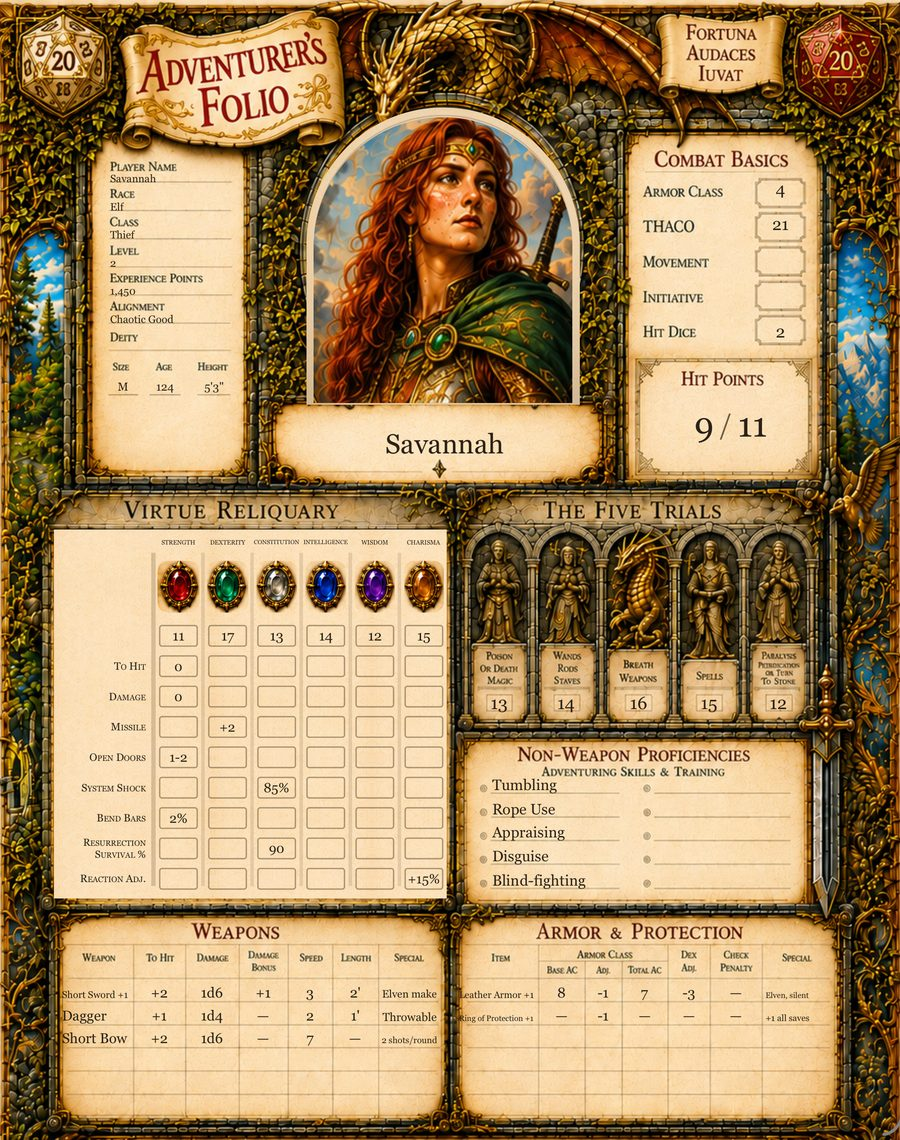
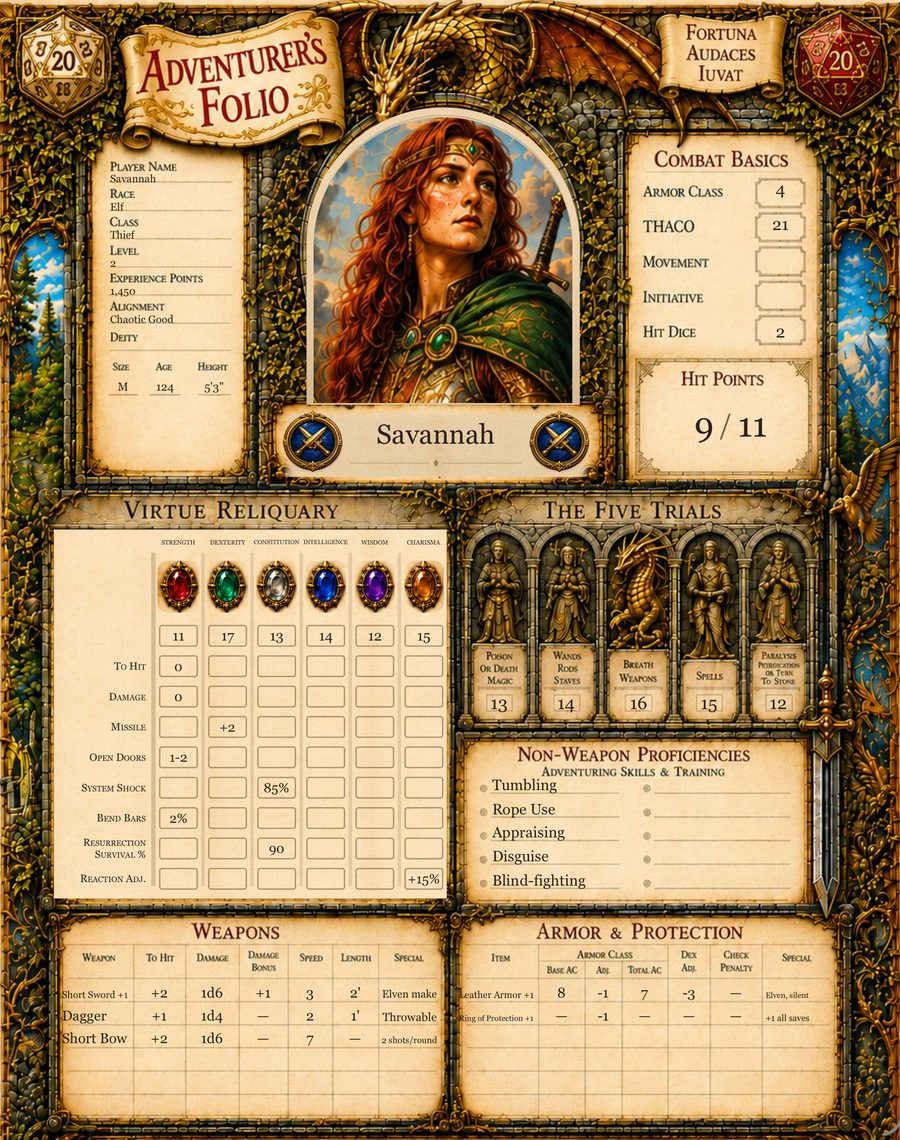
The page a printed QR code lands on can now answer the questions it raises
The flyers point here, and the page they pointed at described the app without
ever saying how to get it, what it costs, or which rule sets are in the box.

Added: a "getting it" card at the top, carrying the honest state — in review —
with the App Store markup ready in a comment beside it. What it costs, listing
the free tier and all three purchases in the same words the App Store listing
uses, including the free tier's print freeze, which is the one restriction a
buyer meets after the fact. And a plain FAQ: no Android, no web, no servers,
no adventures or monsters in the box, and what happens to your heroes if you
delete the app.

The editions section was wrong rather than thin — "first-edition Advanced and
fifth edition" is two of the three the app ships, and it named the paid one as
though it were free. It now names all three and which two are included.

A whole 2024 sheet joins the page beside the first-edition one, so the claim
that the two families are different pages is something a reader can check
rather than take. It comes from the phone capture: the iPad cannot hold a
whole sheet on screen.

Changed region(s): [[0.3111, 0.3377, 0.6533, 0.4298]]

diff --git a/index.html b/index.html
@@ -36,6 +36,19 @@ tabletop roleplaying &mdash; keep your heroes as living sheets on iPhone and
 iPad, roll dice that feel like dice, and print a page worth putting on the
 table.</p>
 
+<!-- ON APPROVAL, replace the paragraph inside this card with:
+       <p style="margin-bottom:0"><a href="https://apps.apple.com/app/id6797734128">Download
+       on the App Store</a> &mdash; free, with two complete rule sets.</p>
+     and delete the class="pending" so it stops reading as a status note.
+     The printed flyers' QR code points at this page, so this card is the
+     first thing a reader of one is looking for. -->
+<div class="card pending" id="get">
+  <h3 style="margin-top:0">Getting it</h3>
+  <p style="margin-bottom:0">The Folio is with Apple for review. The App Store
+  link lands on this page the day it is approved &mdash; the app is free, with
+  two complete rule sets and every live-play feature in it.</p>
+</div>
+
 <hr>
 
 <h2>Most character-sheet apps are forms</h2>
@@ -79,20 +92,38 @@ table.</p>
   <figcaption>Every set in the tray, yours to switch between.</figcaption>
 </figure>
 
-<h2>Two rules families, painted separately</h2>
+<h2>Three rule sets. Two of them free.</h2>
 
 <div class="split">
+  <figure>
+    <img src="img/sheet-2024.jpg" width="900" height="1352" loading="lazy"
+         alt="A 2024-revision character sheet: six ability modifiers, the Six Trials, a skills panel, and a Marshal's Board of racial and class bonuses.">
+  </figure>
+  <div>
+    <p><strong>1st Edition (1977&ndash;1988)</strong> and <strong>the 2024
+    revision</strong> are both in the app from the start. <strong>5th Edition
+    (2014)</strong> is a separate purchase for tables still playing it.</p>
+    <p>Each gets its own page architecture and its own correctly computed
+    numbers &mdash; five saving throws or six, THAC0 or an attack bonus, weapon
+    proficiencies or skills. Neither is a reskin of the other: the panels that
+    have no meaning in your edition are not there.</p>
+    <p>Pick the ruleset when you make the hero. The sheet speaks your
+    table&rsquo;s dialect from then on.</p>
+  </div>
+</div>
+
+<h2>Eleven classes, eleven painted pages</h2>
+
+<div class="split reverse">
   <figure>
     <img src="img/class-pages.jpg" width="900" height="1140" loading="lazy"
          alt="A gallery of class ledger pages, each painted for its own class.">
   </figure>
   <div>
-    <p>First-edition Advanced and fifth edition, each with its own painted
-    panels and its own derived stats &mdash; THAC0 and the five saves on one,
-    proficiency and the six saves on the other. Neither is a reskin of the
-    other.</p>
-    <p>Eleven classes, each with its own ledger page, its own seal and its own
-    palette.</p>
+    <p>The thief&rsquo;s guild book, the paladin&rsquo;s temple codex, the magic-user&rsquo;s
+    illuminated grimoire, the druid&rsquo;s grove tome. Each class carries its own
+    ledger page, its own seal and its own palette.</p>
+    <p>Your hero&rsquo;s second page is the one that belongs to them.</p>
   </div>
 </div>
 
@@ -132,10 +163,45 @@ around before you keep it. Or build one by hand, a line at a time.</p>
 <ul>
   <li><strong>Living sheets.</strong> Every value typeset onto painted art, editable in place.</li>
   <li><strong>Dice with weight.</strong> A 3D tray with collector-grade sets &mdash; tap a save or a check and watch it land.</li>
-  <li><strong>Two rules families.</strong> First-edition Advanced and fifth edition, each with its own painted panels and its own derived stats.</li>
+  <li><strong>Three rule sets.</strong> 1st Edition and the 2024 revision included; 5th Edition (2014) as a purchase. Each with its own painted panels and its own derived stats.</li>
   <li><strong>Eleven classes.</strong> Class-themed pages, ledgers and seals.</li>
-  <li><strong>Print-perfect PDFs.</strong> Two pages, US Letter, ready for pencil and ink.</li>
+  <li><strong>Print-perfect PDFs.</strong> The painted sheet, the Adventurer&rsquo;s Ledger, and more pages of Grimoire if your hero casts. US Letter, ready for pencil and ink.</li>
   <li><strong>Portraits.</strong> Drop in a picture of your hero; it clips into the painted window.</li>
+</ul>
+
+<h2>What it costs</h2>
+
+<p>No subscription and no renewals. Everything below is a single payment, and
+what you buy stays bought.</p>
+
+<h3>Free</h3>
+<ul>
+  <li><strong>One hero</strong>, and every live-play feature the app has.</li>
+  <li><strong>Two complete rule sets</strong> &mdash; 1st Edition
+  (1977&ndash;1988) and the 2024 revision.</li>
+  <li><strong>Two dice sets</strong>, aged ivory and deep red resin, in the
+  full 3D tray.</li>
+  <li><strong>Printing.</strong> One thing to know: printing a free hero sets
+  its name, class, race and ability scores in ink. Everything else still
+  changes as you play.</li>
+</ul>
+
+<h3>The Folio</h3>
+<ul>
+  <li>Unlimited heroes, and nothing set in ink.</li>
+  <li>The painted class pages and class ledgers.</li>
+  <li>Blank sheets to print for the whole party.</li>
+</ul>
+
+<h3>5th Edition (2014)</h3>
+<ul>
+  <li>Adds the 2014 ruleset, its own sheet and its spell tables.</li>
+</ul>
+
+<h3>Premium Dice Pack</h3>
+<ul>
+  <li>Ten more collector sets, from molten gold to charcoal veined with glowing
+  ember.</li>
 </ul>
 
 <h2>Yours, on your device</h2>
@@ -143,6 +209,34 @@ around before you keep it. Or build one by hand, a line at a time.</p>
 about you, and it never sends your characters anywhere. It works with no signal
 at all. See the <a href="privacy.html">privacy policy</a> &mdash; it is short,
 because there is very little to say.</p>
+
+<h2>Questions people actually ask</h2>
+
+<h3>Do I need to know the rules to use it?</h3>
+<p>No, and you do not need to look anything up either. The app knows the tables
+for the ruleset you picked and does the arithmetic as you play. It is not a
+teacher and it will not tell you what to do on your turn &mdash; that is what
+the table is for.</p>
+
+<h3>Can I bring a character I already have?</h3>
+<p>Yes. Build one by hand, a line at a time, and put in whatever your existing
+sheet says. Nothing is computed that you cannot overwrite.</p>
+
+<h3>Is there an Android version? A web version?</h3>
+<p>No. It is a native iPhone and iPad app, and the painted pages are the
+reason.</p>
+
+<h3>Does it work without signal?</h3>
+<p>Entirely. There is no server to reach.</p>
+
+<h3>What happens to my heroes if I delete the app?</h3>
+<p>They go with it, the same as any file on your device. Print or export a PDF
+of anything you want to keep, and back your device up.</p>
+
+<h3>Is this an official product?</h3>
+<p>No. It is an independent app, not affiliated with or endorsed by any game
+publisher. It ships no adventures, no monsters and no spell descriptions
+&mdash; bring your own books.</p>
 
 <h2>Requirements</h2>
 <p>iPhone and iPad, iOS 17 or later.</p>

diff --git a/support.html b/support.html
@@ -53,6 +53,12 @@ with it. There is no direct device-to-device transfer yet.</p>
 Purchases are tied to the Apple Account that made them, so make sure you are
 signed in with that account.</p>
 
+<h3>Which rule sets do I get?</h3>
+<p>1st Edition (1977&ndash;1988) and the 2024 revision are both in the app and
+free. <strong>5th Edition (2014)</strong> is a separate one-time purchase that
+adds that ruleset, its own sheet and its spell tables. A character keeps the
+ruleset it was made with.</p>
+
 <h3>Why can I only keep one character?</h3>
 <p>The free folio holds one hero. <strong>The Folio</strong> is a single
 one-time purchase &mdash; no subscription &mdash; that lifts the limit and

diff --git a/style.css b/style.css
@@ -57,6 +57,10 @@ li { margin: .4rem 0; }
   margin: 1.25rem 0;
 }
 .updated { color: var(--ink-soft); font-size: .9rem; }
+/* The "getting it" card while the app is still in review. The rule down the
+   left is what makes it read as a status note rather than as the download
+   button someone arriving from a printed QR code is hoping for. */
+.card.pending { border-left: 4px solid var(--accent); }
 footer {
   margin-top: 3.5rem;
   padding-top: 1.25rem;
